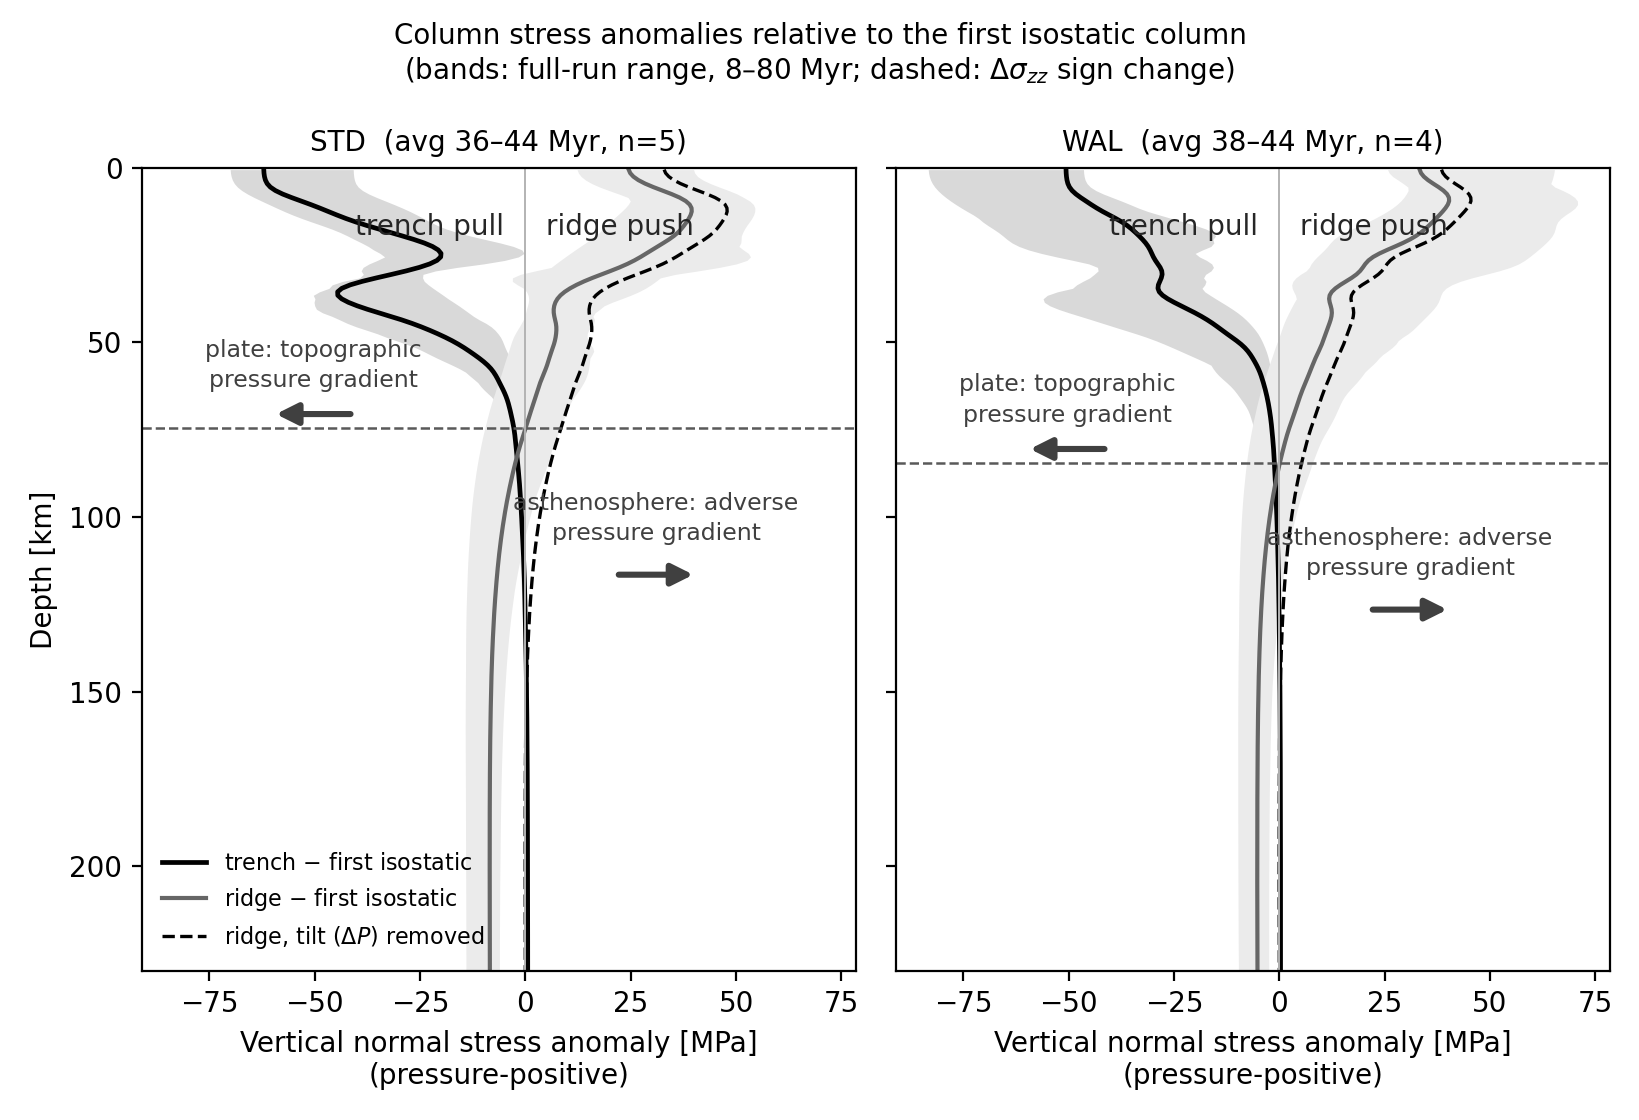
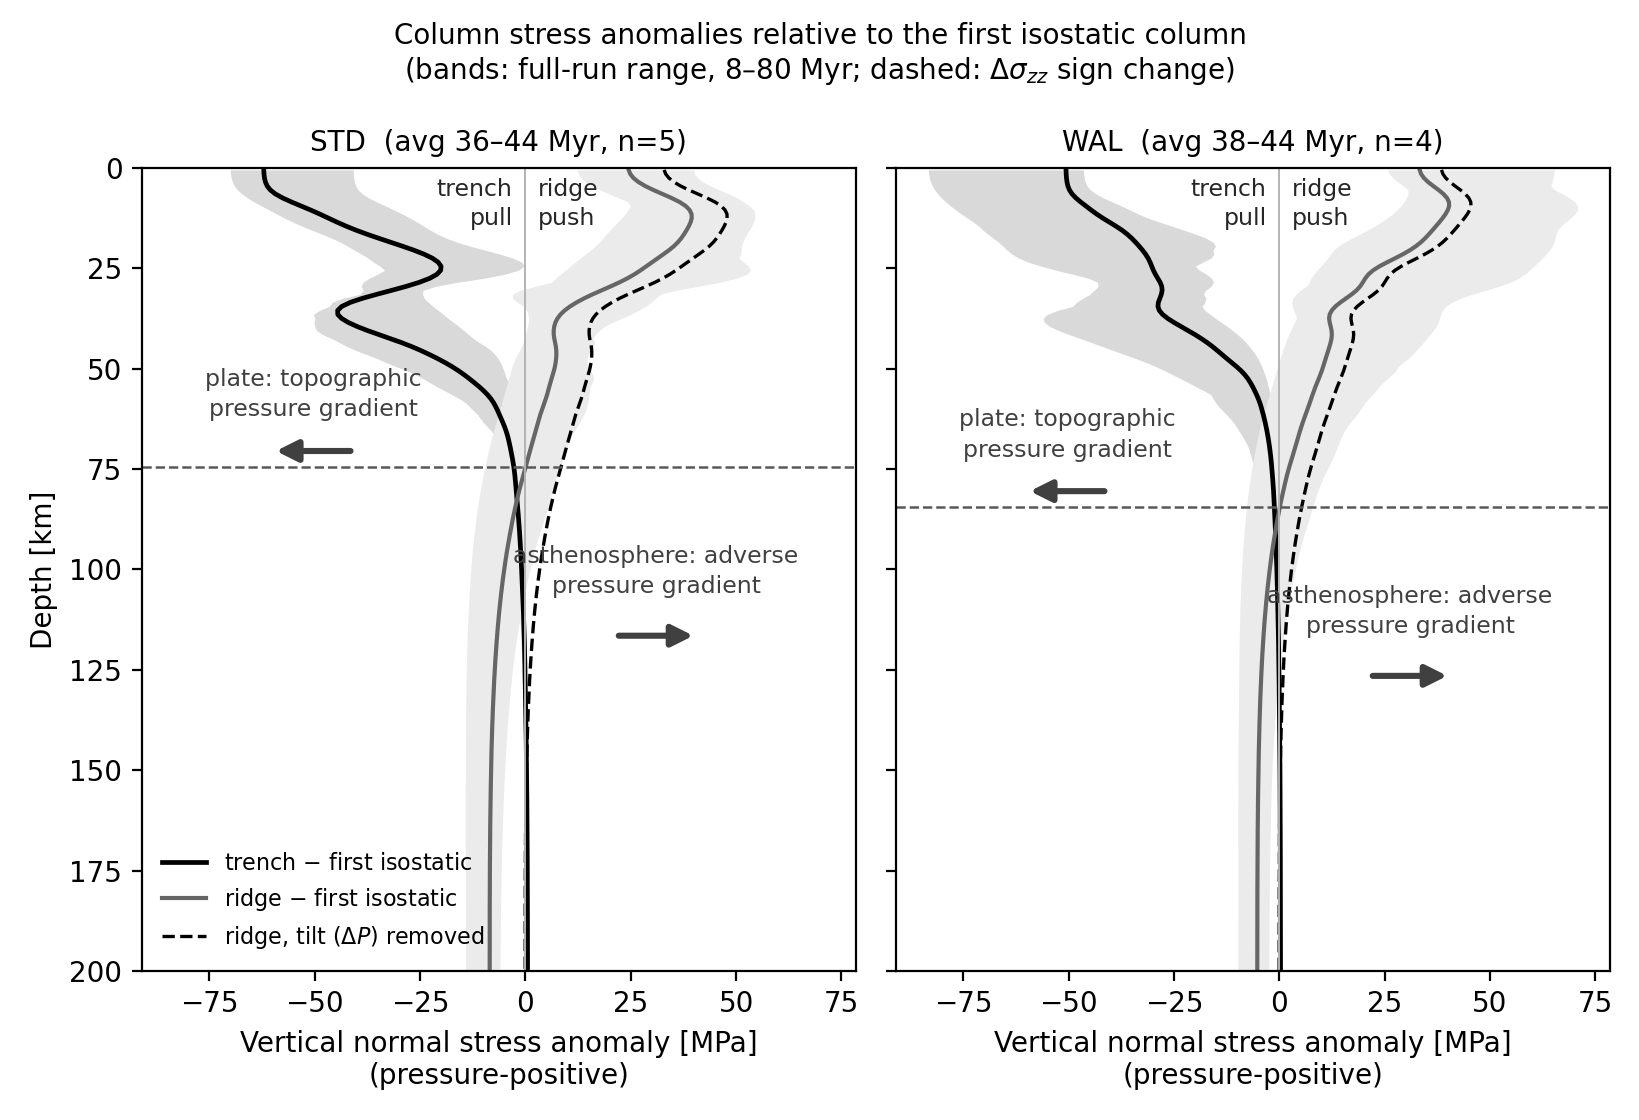
fig_column_anomalies: force labels shallower and stacked, axis capped at 200 km
Dan 2026-09-18. 'trench pull' and 'ridge push' are now two lines each at
9 km depth, a smaller font, and closer to the zero axis; the depth axis
ends at 200 km, which is as deep as the figure needs to go.

diff --git a/scripts/fig_column_anomalies.py b/scripts/fig_column_anomalies.py
@@ -80,10 +80,10 @@ def main():
         ax.axhline(z_x, color='0.35', lw=0.9, ls='--')
         # name the two forces where their amplitude is largest, in the
         # corridor between the trench and ridge bands (Dan, 2026-09-18)
-        ax.text(-5, 17, 'trench pull', ha='right', va='center', fontsize=10,
-                color='0.15')
-        ax.text(5, 17, 'ridge push', ha='left', va='center', fontsize=10,
-                color='0.15')
+        ax.text(-3, 9, 'trench\npull', ha='right', va='center', fontsize=8.5,
+                color='0.15', linespacing=1.3)
+        ax.text(3, 9, 'ridge\npush', ha='left', va='center', fontsize=8.5,
+                color='0.15', linespacing=1.3)
         # Regime labels: two lines each, set WELL CLEAR of the sign change
         # (one shallower, one much deeper), each with an arrow giving the
         # direction of the force it produces (Dan, 2026-09-18).
@@ -107,7 +107,7 @@ def main():
                                         mutation_scale=16))
         ax.set_xlabel('Vertical normal stress anomaly [MPa]\n(pressure-positive)')
     axes[0].set_ylabel('Depth [km]')
-    axes[0].set_ylim(230, 0)
+    axes[0].set_ylim(200, 0)
     axes[0].legend(fontsize=8, frameon=False, loc='lower left')
     fig.suptitle('Column stress anomalies relative to the first isostatic column\n'
                  '(bands: full-run range, 8–80 Myr; dashed: $\\Delta\\sigma_{zz}$ sign change)', fontsize=10)
